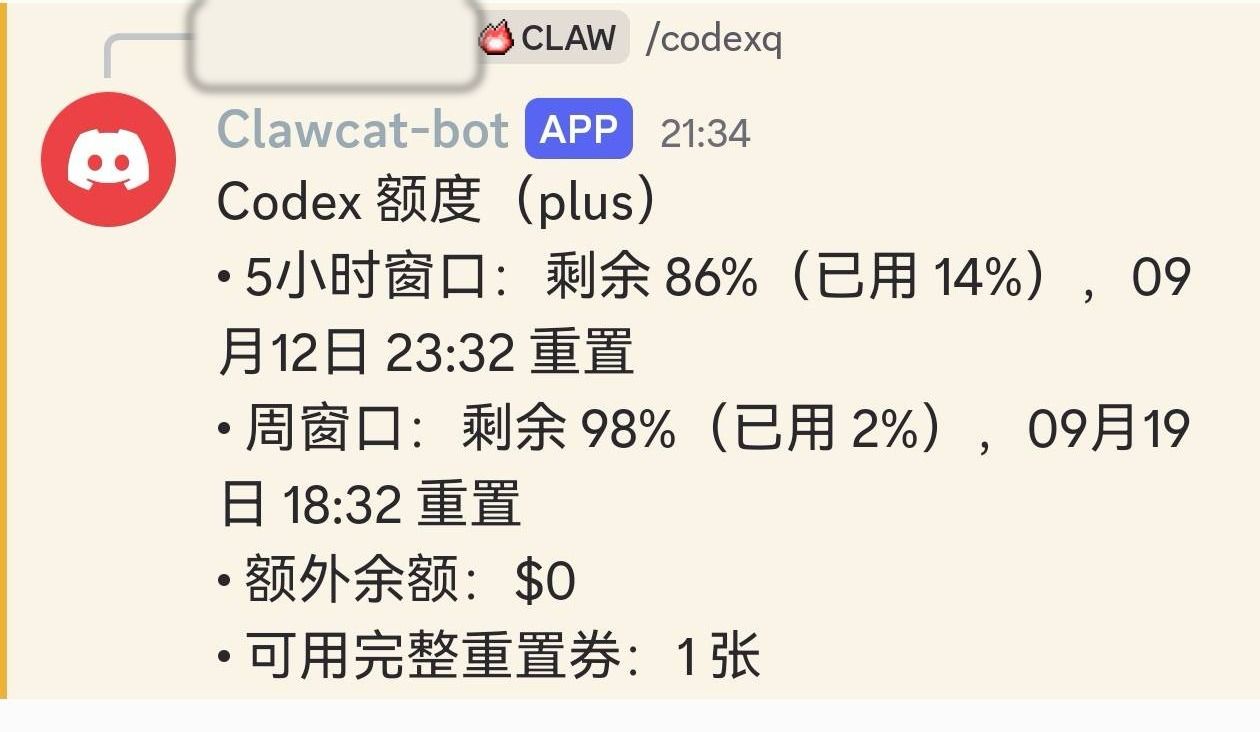
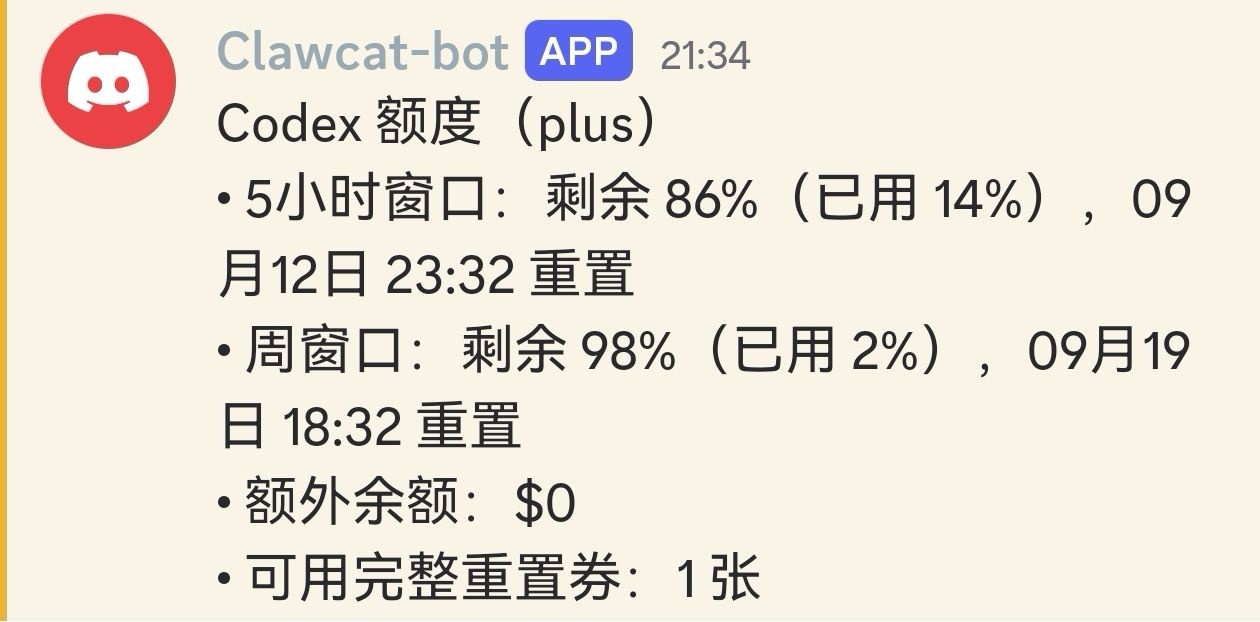
docs: replace command screenshot

diff --git a/README.md b/README.md
@@ -5,7 +5,7 @@
 ## 特性
 
 - 注册无参数的 `/codexq` 指令。
-- 使用 Hermes 自己的 `openai-codex` OAuth 凭据，不调用或依赖本机 `codex` CLI 登录状态。
+- 使用 Hermes 自己的 `openai-codex` OAuth 凭据查询额度。
 - 通过 ChatGPT Codex 用量端点查询当前账号的 5 小时窗口、周窗口、额外余额和重置券。
 - 输出前只保留额度字段；绝不输出 OAuth token、账号 ID、用户 ID 或邮箱。
 - 不接受用户参数，不通过 shell 执行命令。
@@ -15,11 +15,9 @@
 1. Hermes 的默认模型或凭据池已配置 `openai-codex` OAuth（用 `hermes auth list openai-codex` 验证）。
 2. Hermes 已配置并连接 Discord。
 
-不需要安装或登录本机 Codex CLI。
-
 ## 示例
 
-下图为已脱敏的 Discord `/codexq` 输出示例：用户头像和用户名已移除，保留命令与额度展示布局。
+下图为 Discord `/codexq` 的额度输出示例。
 
 ![Discord /codexq 示例](assets/codexq-discord-example.jpg)
 
@@ -42,7 +40,7 @@ hermes gateway restart
 
 ## 安全说明
 
-- 插件经 Hermes 的 `resolve_codex_runtime_credentials()` 取得短时运行凭据；不会读取 Codex CLI 凭据存储。
+- 插件经 Hermes 的 `resolve_codex_runtime_credentials()` 取得短时运行凭据。
 - 凭据仅作为请求头发往 OpenAI 的 Codex 用量端点，不会打印、写盘或进入 Discord 消息。
 - 上游响应中的 `user_id`、`account_id`、`email` 等字段会被丢弃。
 - 代码不包含任何令牌、账号、Webhook、服务器地址或个人本机路径。
